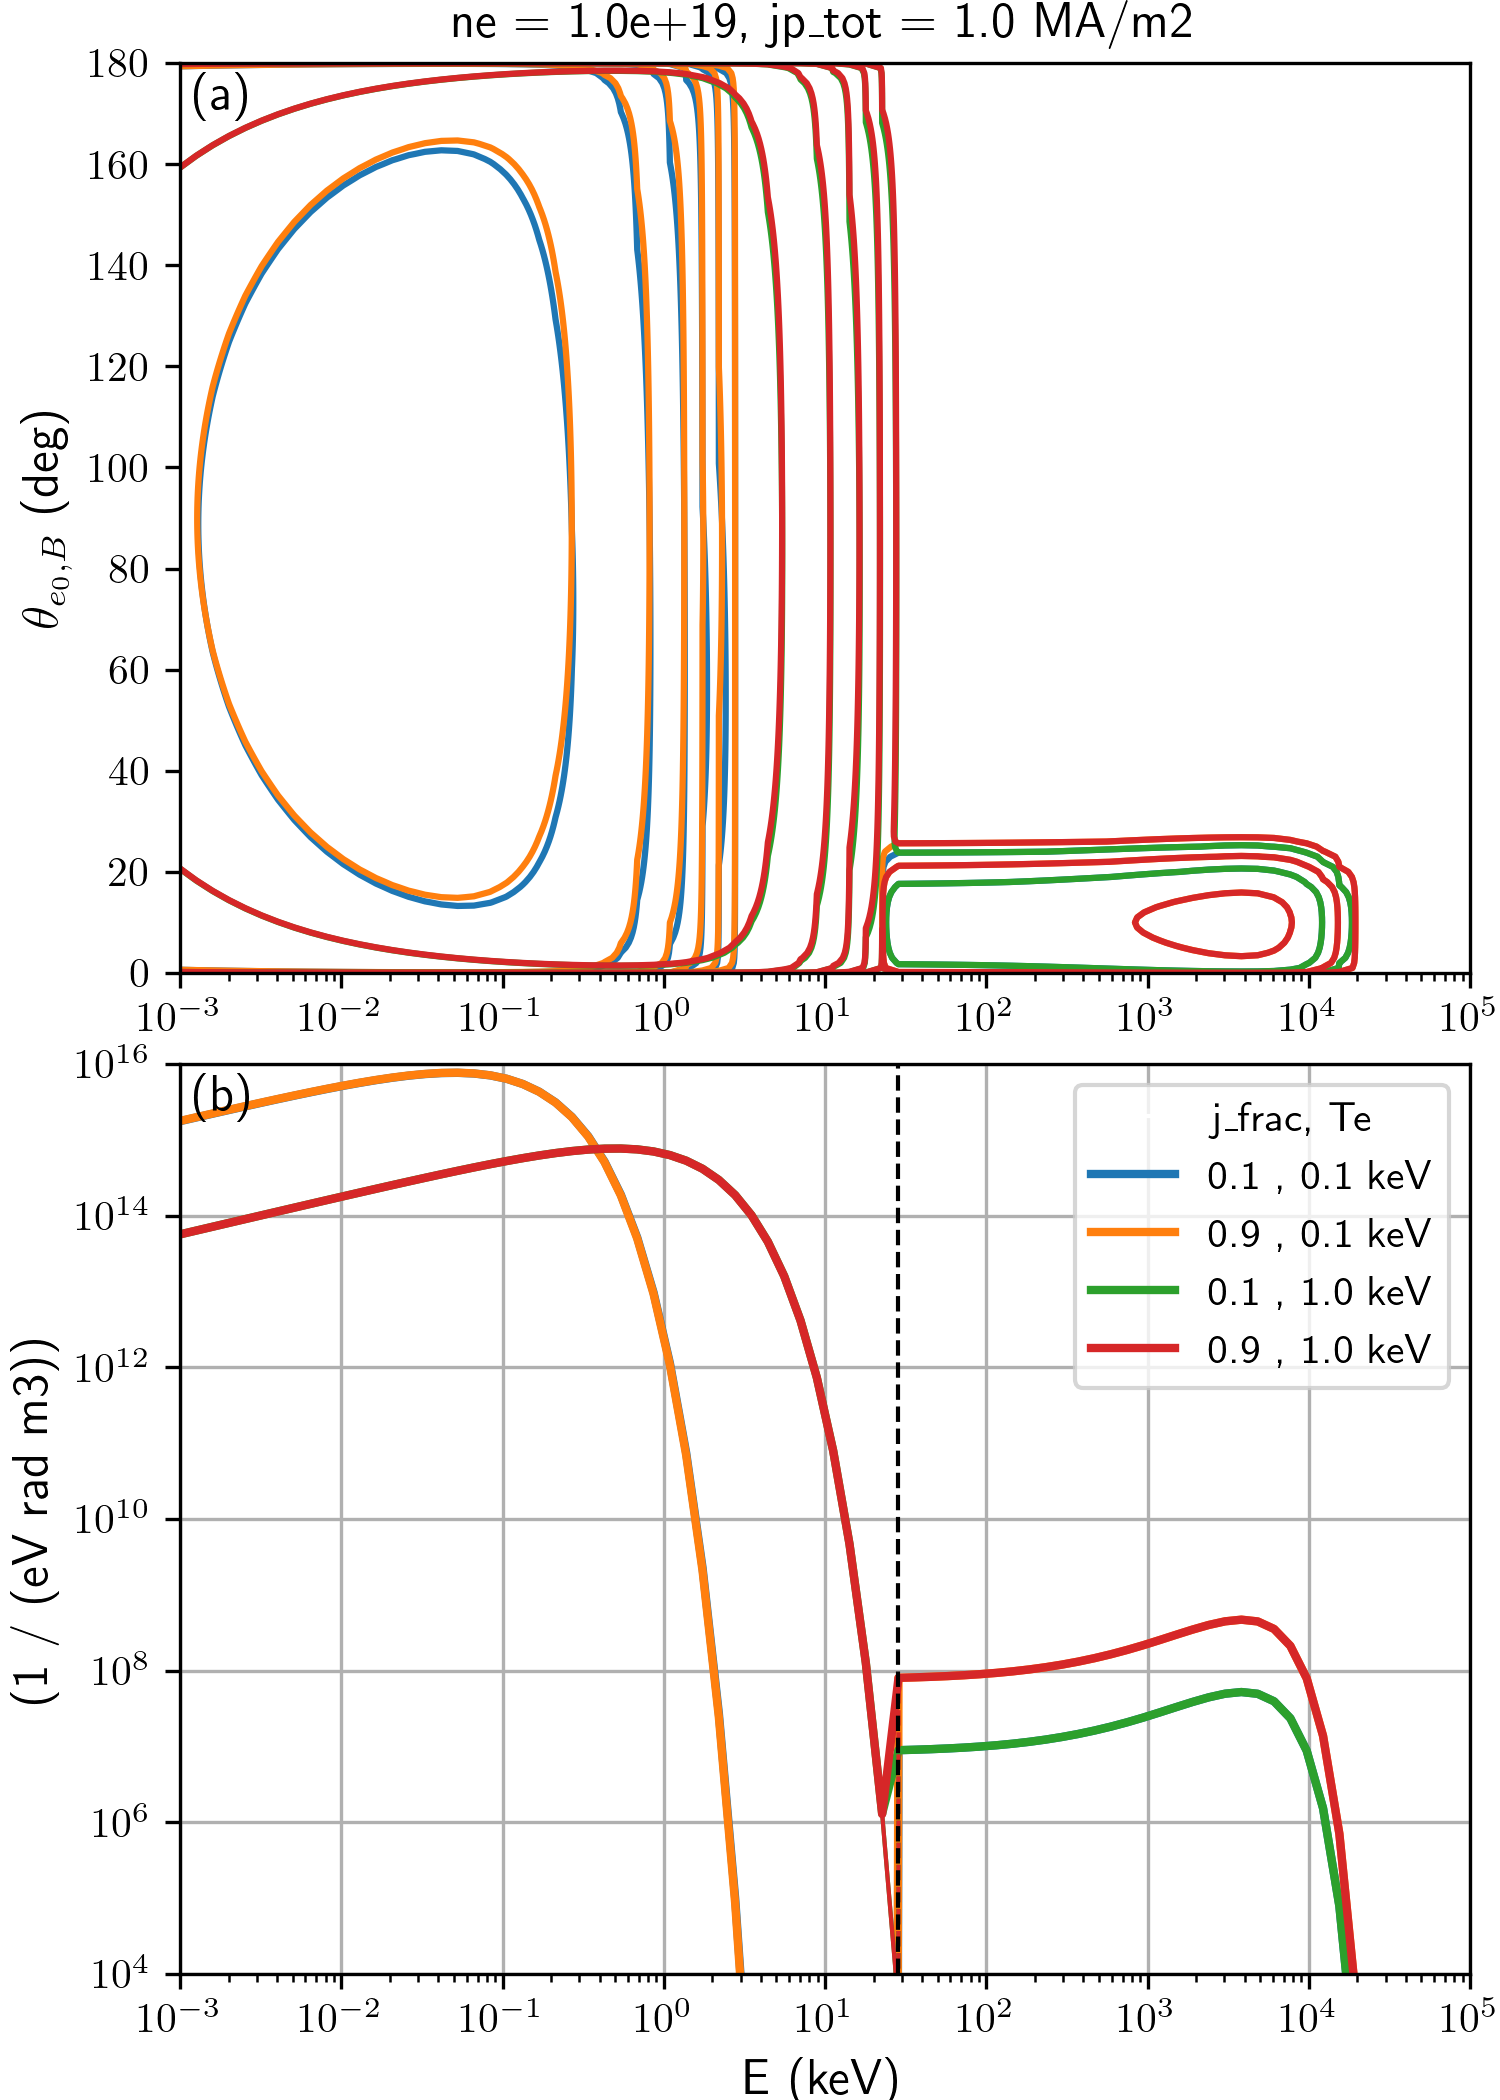
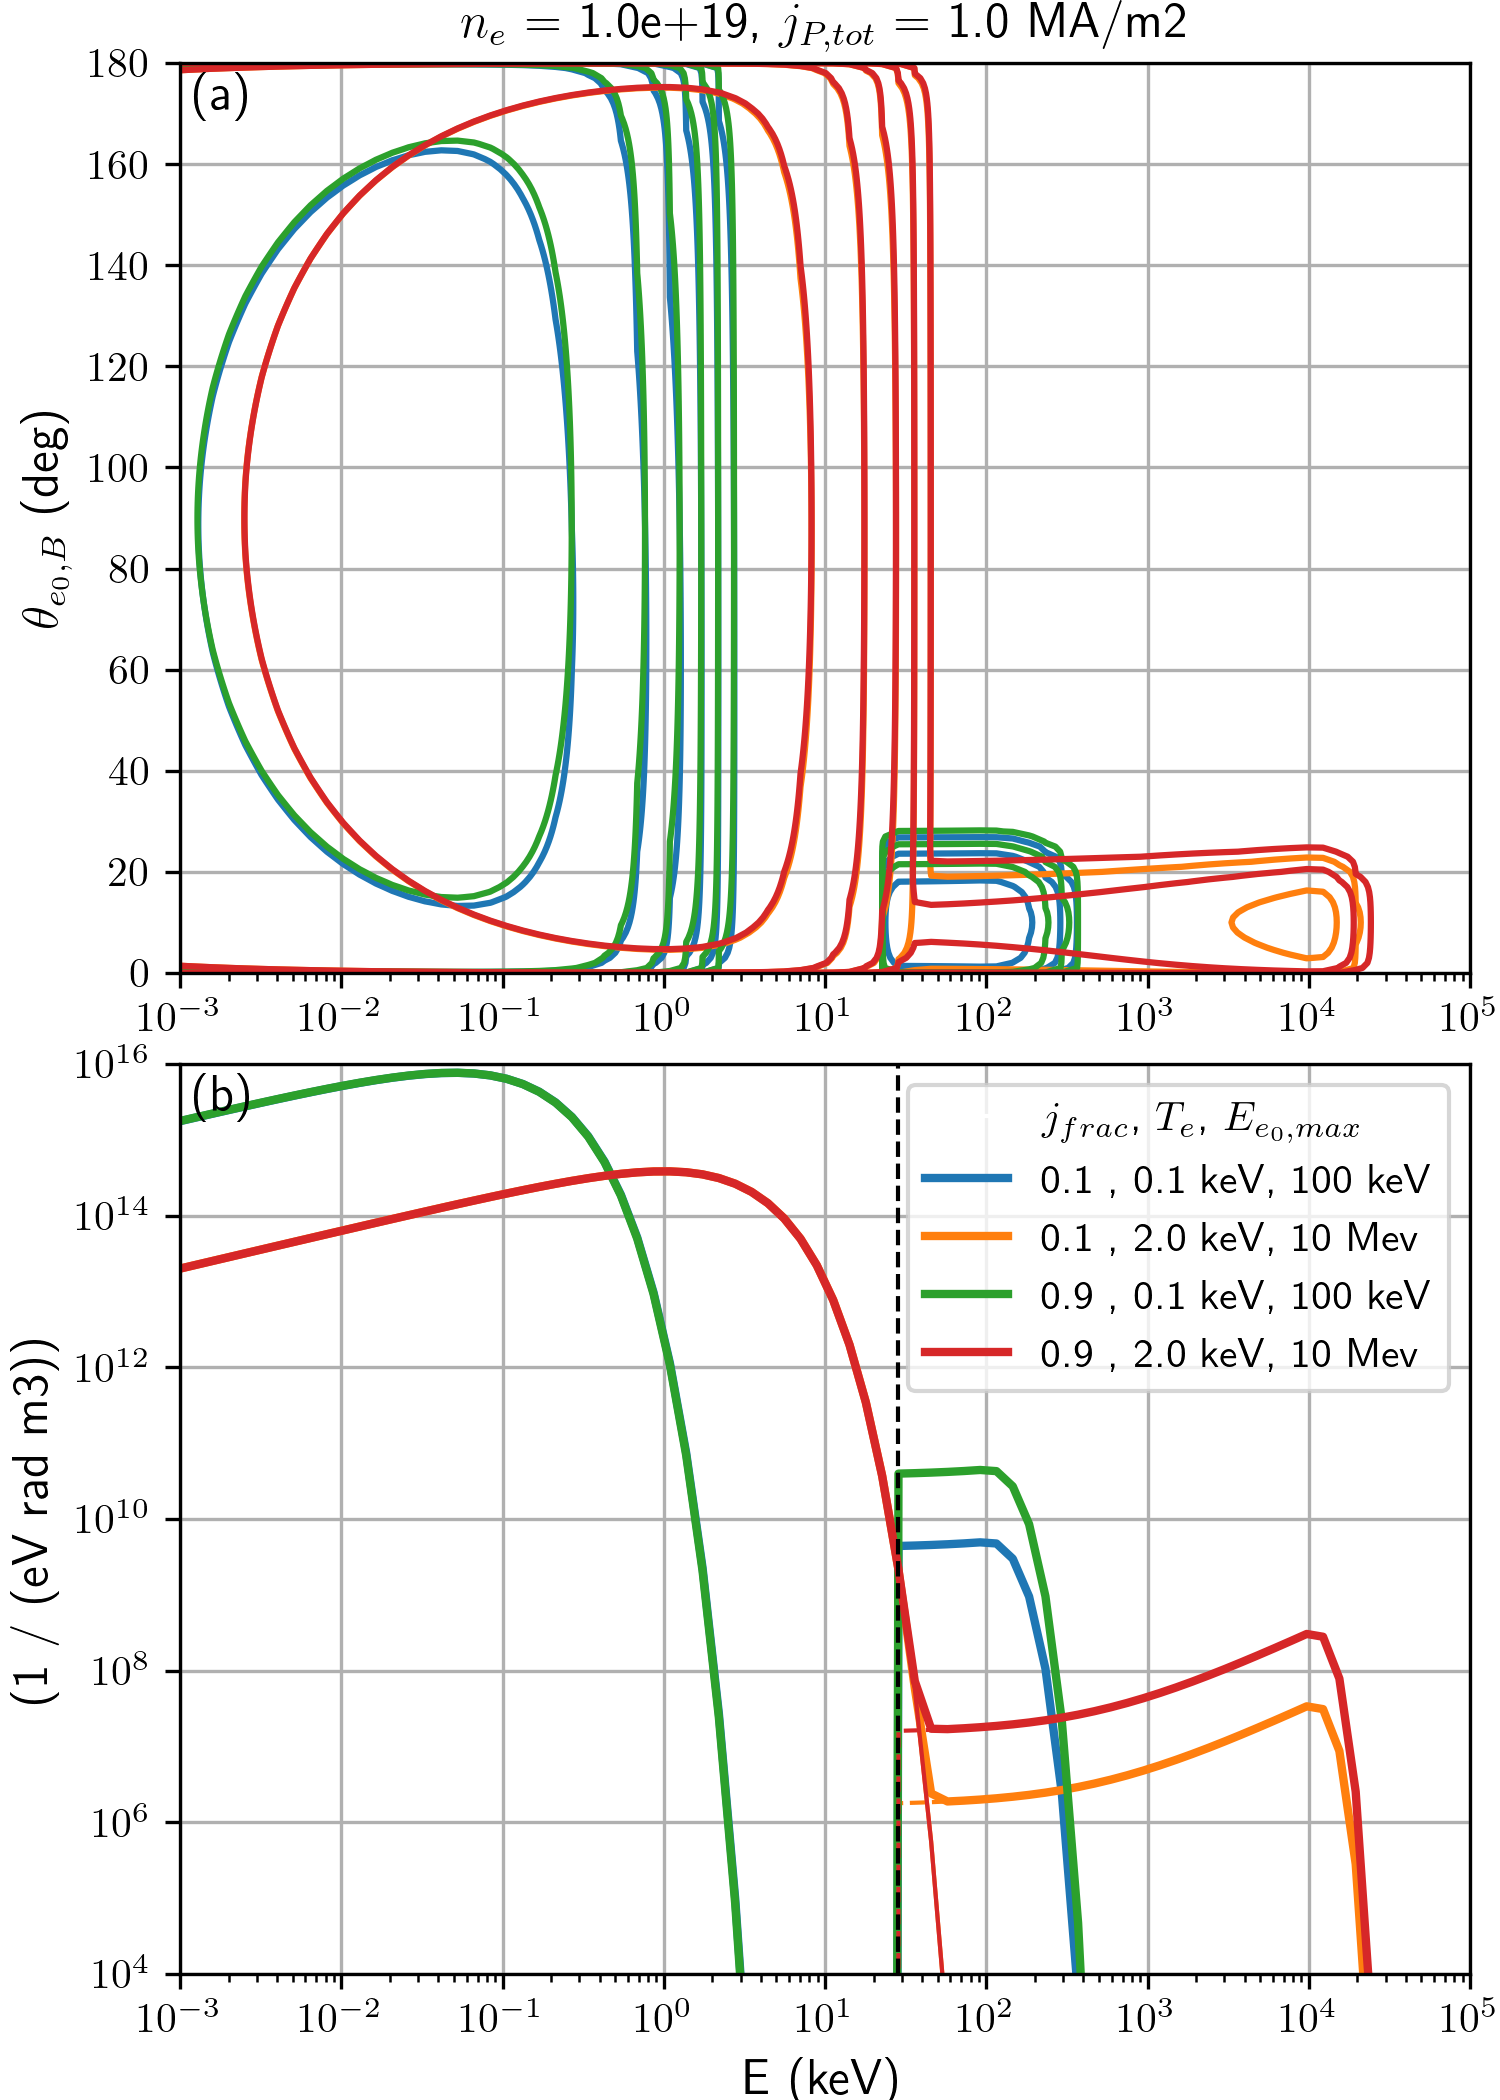
[#001] Fig02_dist now has 2 different Ekin_max_eV

diff --git a/articles/RSI_2026_RunawayBremsstrahlungDetection/code/_fig02_dist.py b/articles/RSI_2026_RunawayBremsstrahlungDetection/code/_fig02_dist.py
@@ -24,16 +24,16 @@ _PATH_SAVE = os.path.join(os.path.dirname(_PATH_HERE), 'figures')
 
 _DDIST = {
     # maxwell
-    'Te_eV': np.r_[0.1e3, 0.1e3, 1e3, 1e3],
+    'Te_eV': np.r_[0.1e3, 2e3, 0.1e3, 2e3],
     'ne_m3': 1e19,
     'jp_Am2': 1e6,
     # RE
-    'jp_fraction_re': np.r_[0.1, 0.9, 0.1, 0.9],
+    'jp_fraction_re': np.r_[0.1, 0.1, 0.9, 0.9],
     'dominant': 'bump',
-    'Ekin_max_eV': 1e6,
+    'pnormW': np.r_[0.1, 4, 0.1, 4],
+    'Ekin_max_eV': np.r_[100e3, 10e6, 100e3, 10e6],
     'Ekin_min_eV': 100,
-    'step': 1,
-    'pnormW': 5,
+    'step': 0.1,
     'theta_width': 20*np.pi/180,
     # coords
     'E_eV': np.logspace(0, 8, 80),
@@ -92,25 +92,25 @@ def main(
     # compute
     # ------------
 
-    # dout = {'dist': dict, 'plasma': dist, 'coords': dist}
-    dout = tfphysdist.get_distribution(**din)
+    # ddist = {'dist': dict, 'plasma': dist, 'coords': dist}
+    ddist = tfphysdist.get_distribution(**din)
 
     # units
-    units2d = asunits.Unit(dout['dist']['RE']['dist']['units'])
-    units1d = units2d * asunits.Unit(dout['coords']['x1']['units'])
+    units2d = asunits.Unit(ddist['dist']['RE']['dist']['units'])
+    units1d = units2d * asunits.Unit(ddist['coords']['x1']['units'])
 
     # ------------
     # Derive 1d data
     # ------------
 
     dataRE = scpinteg.trapezoid(
-        dout['dist']['RE']['dist']['data'],
-        x=dout['coords']['x1']['data'],
+        ddist['dist']['RE']['dist']['data'],
+        x=ddist['coords']['x1']['data'],
         axis=-1,
     )
     dataMax = scpinteg.trapezoid(
-        dout['dist']['maxwell']['dist']['data'],
-        x=dout['coords']['x1']['data'],
+        ddist['dist']['maxwell']['dist']['data'],
+        x=ddist['coords']['x1']['data'],
         axis=-1,
     )
 
@@ -118,20 +118,20 @@ def main(
     # Derive levels, vmin, vmax
     # ------------
 
-    Ekin_max = dout['plasma']['Ekin_max_eV']['data']
+    Ekin_max = ddist['plasma']['Ekin_max_eV']['data']
     vminRE_2d = np.inf
     vminRE_1d = np.inf
     for ind in np.ndindex(dataRE.shape[:-1]):
-        indE = np.argmin(np.abs(dout['coords']['x0']['data'] - Ekin_max[ind]))
+        indE = np.argmin(np.abs(ddist['coords']['x0']['data'] - Ekin_max[ind]))
         sli = ind + (indE, slice(None))
-        vmaxRE_2d = np.nanmax(dout['dist']['RE']['dist']['data'][sli])
+        vmaxRE_2d = np.nanmax(ddist['dist']['RE']['dist']['data'][sli])
         vminRE_2d = min(vminRE_2d, vmaxRE_2d)
         sli = ind + (indE,)
         vmaxRE_1d = dataRE[sli]
         vminRE_1d = min(vminRE_1d, vmaxRE_1d)
-    vmaxRE_2d = np.nanmax(dout['dist']['RE']['dist']['data'])
+    vmaxRE_2d = np.nanmax(ddist['dist']['RE']['dist']['data'])
     vmaxRE_1d = np.nanmax(dataRE)
-    vmaxMax_2d = np.nanmax(dout['dist']['maxwell']['dist']['data'])
+    vmaxMax_2d = np.nanmax(ddist['dist']['maxwell']['dist']['data'])
     vmaxMax_1d = np.nanmax(dataMax)
 
     # 1d
@@ -154,24 +154,31 @@ def main(
     # --------------
 
     dlabel = {}
-    for ind in np.ndindex(dout['dist']['RE']['dist']['data'].shape[:-2]):
-        Te = dout['plasma']['Te_eV']['data'][ind] * 1e-3
-        jpf = dout['plasma']['jp_fraction_re']['data'][ind]
+    for ind in np.ndindex(ddist['dist']['RE']['dist']['data'].shape[:-2]):
+        Te = ddist['plasma']['Te_eV']['data'][ind] * 1e-3
+        jpf = ddist['plasma']['jp_fraction_re']['data'][ind]
+        Ek = ddist['plasma']['Ekin_max_eV']['data'][ind]
+        Ek = f"{Ek*1e-3:3.0f} keV" if np.log10(Ek) <= 6 else f"{Ek*1e-6:2.0f} Mev"
 
-        dlabel[ind] = f"{jpf:2.1f}  ,    {Te:2.1f} keV"
+        dlabel[ind] = f"{jpf:2.1f}  ,    {Te:2.1f} keV,  {Ek}"
 
     # title
-    ne = np.unique(dout['plasma']['ne_m3']['data'])
+    ne = np.unique(ddist['plasma']['ne_m3']['data'])
     assert ne.size == 1
-    jp = np.unique(dout['plasma']['jp_Am2']['data'])
+    jp = np.unique(ddist['plasma']['jp_Am2']['data'])
     assert jp.size == 1
-    tit = f"ne = {ne[0]:2.1e}, jp_tot = {jp[0]*1e-6:2.1f} MA/m2"
+    tit = (
+        r"$n_e$"
+        + f" = {ne[0]:2.1e}, "
+        + r"$j_{P,tot}$"
+        + f" = {jp[0]*1e-6:2.1f} MA/m2"
+    )
 
     # --------------
     # print
     # --------------
 
-    _print(dout)
+    _print(ddist)
 
     # --------------
     # prepare axes
@@ -248,7 +255,13 @@ def main(
         ax = dax[kax]['handle']
 
         # for legend
-        ax.plot([], [], c='w', ls='-', lw=1, label='j_frac, Te')
+        ax.plot(
+            [], [],
+            c='w',
+            ls='-',
+            lw=1,
+            label=r"$j_{frac}$, $T_e$,   $E_{e_0,max}$",
+        )
 
         # loop plot
         for ind in np.ndindex(dataRE.shape[:-1]):
@@ -256,7 +269,7 @@ def main(
 
             # Max
             l0, = ax.plot(
-                dout['coords']['x0']['data']*1e-3,
+                ddist['coords']['x0']['data']*1e-3,
                 dataMax[sli],
                 ls='-',
                 lw=1,
@@ -265,7 +278,7 @@ def main(
 
             # RE
             ax.plot(
-                dout['coords']['x0']['data']*1e-3,
+                ddist['coords']['x0']['data']*1e-3,
                 dataRE[sli],
                 ls='--',
                 lw=1,
@@ -274,7 +287,7 @@ def main(
 
             # Total
             ax.plot(
-                dout['coords']['x0']['data']*1e-3,
+                ddist['coords']['x0']['data']*1e-3,
                 dataMax[sli] + dataRE[sli],
                 ls='-',
                 lw=2,
@@ -284,13 +297,13 @@ def main(
 
         # Add critical energy
         Ec = tf.physics_tools.electrons.convert_momentum_velocity_energy(
-            momentum_normalized=dout['dist']['RE']['p_crit']['data'],
+            momentum_normalized=ddist['dist']['RE']['p_crit']['data'],
         )['energy_kinetic_eV']['data']
         for ec in np.unique(Ec):
             ax.axvline(ec*1e-3, c='k', lw=1, ls='--')
 
         # decorate
-        ax.legend()
+        ax.legend(loc="upper right")
         ax.grid(True)
         ax.set_ylim(vmin_1d, vmax_1d)
 
@@ -308,18 +321,21 @@ def main(
 
             # data
             data = (
-                dout['dist']['maxwell']['dist']['data'][sli]
-                + dout['dist']['RE']['dist']['data'][sli]
+                ddist['dist']['maxwell']['dist']['data'][sli]
+                + ddist['dist']['RE']['dist']['data'][sli]
             )
 
             # contour
             ax.contour(
-                dout['coords']['x0']['data']*1e-3,
-                dout['coords']['x1']['data']*180/np.pi,
+                ddist['coords']['x0']['data']*1e-3,
+                ddist['coords']['x1']['data']*180/np.pi,
                 data.T,
                 levels_2d,
                 colors=dcolor[ind],
             )
+
+        # decorate
+        ax.grid(True)
 
     # --------------
     # save
@@ -335,10 +351,16 @@ def main(
         msg = f"Saved figure in:\n\t{pfe_save}\n"
         print(msg)
 
-    return dax, dout
+    return dax, ddist
 
 
-def _print(dout, sep='  '):
+# #####################################################
+# #####################################################
+#       _print
+# #####################################################
+
+
+def _print(ddist, sep='  '):
 
     # -----------
     # header
@@ -355,14 +377,14 @@ def _print(dout, sep='  '):
     # header
 
     lc = []
-    for ind in np.ndindex(dout['dist']['RE']['dist']['data'].shape[:-2]):
-        Te = dout['plasma']['Te_eV']['data'][ind]*1e-3
-        ne = dout['plasma']['ne_m3']['data'][ind]*1e-20
-        jp = dout['plasma']['jp_Am2']['data'][ind]*1e-6
-        ne_max = dout['dist']['maxwell']['integ_ne']['data'][ind]*1e-20
-        ne_RE = dout['dist']['RE']['integ_ne']['data'][ind]*1e-20
-        jp_max = dout['dist']['maxwell']['integ_jp']['data'][ind]*1e-6
-        jp_RE = dout['dist']['RE']['integ_jp']['data'][ind]*1e-6
+    for ind in np.ndindex(ddist['dist']['RE']['dist']['data'].shape[:-2]):
+        Te = ddist['plasma']['Te_eV']['data'][ind]*1e-3
+        ne = ddist['plasma']['ne_m3']['data'][ind]*1e-20
+        jp = ddist['plasma']['jp_Am2']['data'][ind]*1e-6
+        ne_max = ddist['dist']['maxwell']['integ_ne']['data'][ind]*1e-20
+        ne_RE = ddist['dist']['RE']['integ_ne']['data'][ind]*1e-20
+        jp_max = ddist['dist']['maxwell']['integ_jp']['data'][ind]*1e-6
+        jp_RE = ddist['dist']['RE']['integ_jp']['data'][ind]*1e-6
 
         cc = [
             str(ind),
